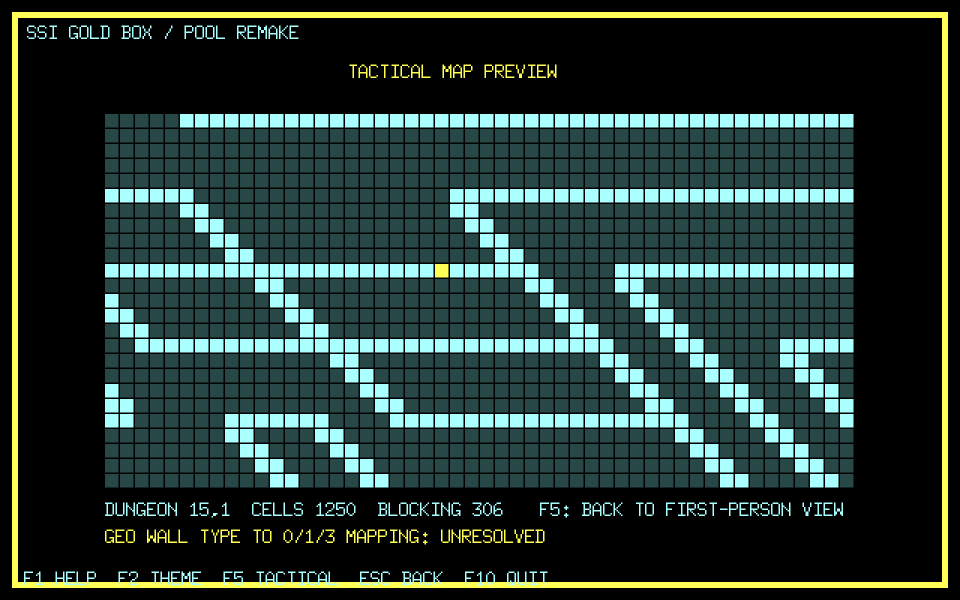
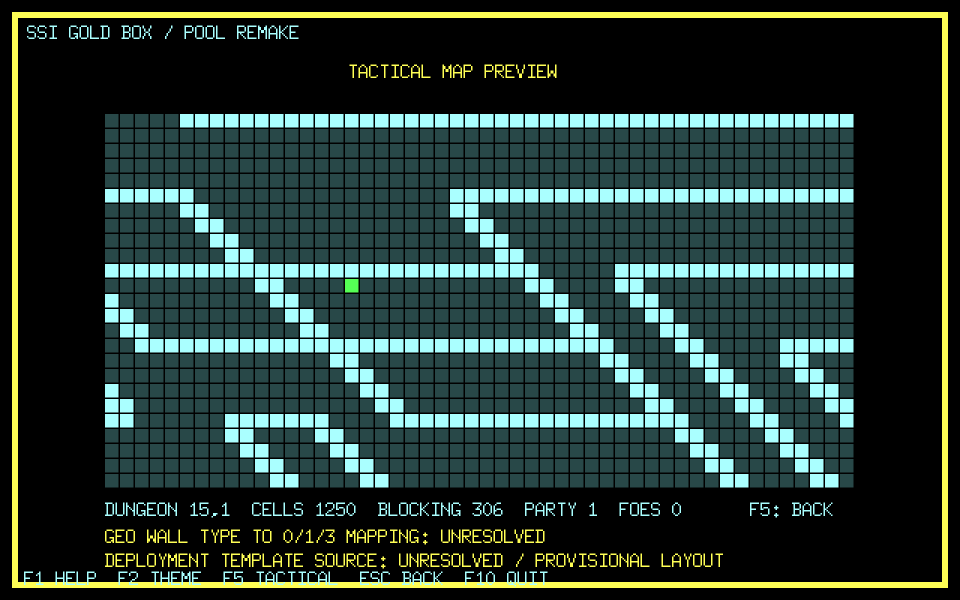
feat: place combatants and decode the GEO wall value mapping
戰術畫面加上 combatant：隊伍與已 staged 的怪物依部署投影擺上戰場，
再用 RebuildOccupancy 算出佔用格畫成兩色。放不下的就不放，不擠也不重疊。

部署仍是暫定的——原版由 DS:43A2h 的陣型樣板決定誰站哪一格，那張表是執行期
填的、不在檔案裡（spec 061），填寫者還沒解出來。這件事寫在畫面上，
而且擺法的程式碼放在畫面層，不進 internal/combat，免得被誤讀成原版行為。

牆面值的對應則不必再猜了：overlay-10 0138h 直接給答案。界外一律回 1，
只有「與隊伍同一列、方向是東或西」例外回 0，走廊因此能延伸出盤面；界內是
「不可通行 → 1；可通行且該方向 detail 為 0 → 0；可通行且 detail 非 0 → 3」。
先前那個「非零一律當成擋路」的簡化已經換掉，門不再畫成實牆。

《青色枷的詛咒》已完成的 remake 產出同樣三個值，只是第一個判斷寫成
「有沒有牆」而非「可不可通行」——措辭相反、結果相同。這裡以 Pool 自己的
位元組為準，把它記在 spec 060。

diff --git a/cmd/pool-game/tactical.go b/cmd/pool-game/tactical.go
@@ -16,17 +16,43 @@ const (
 	tacticalTop      = 76
 )
 
-// geoWallProbe 把 GEO 的牆面查詢接成戰術地圖生成器要的 probe。
+// geoDetailForDirection 取出 GEO cell 在該方向的 detail 位元。
+// engine 的 DetailDirections 依 0／2／4／6 的順序存放。
+func geoDetailForDirection(cell geometry.Cell, direction uint8) uint8 {
+	switch direction {
+	case 0:
+		return cell.DetailDirections[0]
+	case 2:
+		return cell.DetailDirections[1]
+	case 4:
+		return cell.DetailDirections[2]
+	case 6:
+		return cell.DetailDirections[3]
+	}
+	return 0
+}
+
+// geoWallProbe 重現 overlay-10 `0138h`：把 GEO 資料換成戰術層的 0／1／3。
 // engine 的 Wall 用的就是 0／2／4／6 這組方向碼，與戰術層同一套，不必轉換。
 //
-// 原版的牆面值有 0、1、3 三種（spec 060），但 GEO 的牆面值是牆的樣式編號，
-// 兩者之間的對應還沒解出來。這裡把所有非零一律當成 WallBlocking——
-// 於是門目前會畫成實牆。這是刻意讓缺口看得見，不是猜一個對應。
-func geoWallProbe(grid geometry.Grid) combat.WallProbe {
+// 原版不對座標取模：超出 16×16 一律當成牆，只有「與隊伍同一列、且方向是東或西」
+// 例外，那一格回開放，好讓走廊可以延伸出盤面。界內則是「沒有牆 → 0；
+// 有牆且該方向的 detail 位元為 0 → 1；有牆且 detail 非 0 → 3」。
+func geoWallProbe(grid geometry.Grid, partyY int) combat.WallProbe {
 	return func(direction uint8, x, y int) (uint8, error) {
-		wall, ok := grid.WallWrapped(x, y, int(direction))
+		if x < 0 || x >= geometry.Width || y < 0 || y >= geometry.Height {
+			if y == partyY && (direction == combat.WallDirectionEast || direction == combat.WallDirectionWest) {
+				return combat.WallOpen, nil
+			}
+			return combat.WallBlocking, nil
+		}
+		wall, ok := grid.Wall(x, y, int(direction))
 		if !ok || wall == 0 {
 			return combat.WallOpen, nil
+		}
+		cell, _ := grid.Cell(x, y)
+		if geoDetailForDirection(cell, direction) != 0 {
+			return combat.WallAlternate, nil
 		}
 		return combat.WallBlocking, nil
 	}
@@ -52,7 +78,7 @@ func drawTactical(screen *ebiten.Image, a *app, foreground, accent color.Color) 
 		return
 	}
 
-	grid, err := combat.GenerateIndoorTacticalGrid(int(a.spawn.X), int(a.spawn.Y), geoWallProbe(a.initialMap.Grid))
+	grid, err := combat.GenerateIndoorTacticalGrid(int(a.spawn.X), int(a.spawn.Y), geoWallProbe(a.initialMap.Grid, int(a.spawn.Y)))
 	if err != nil {
 		drawText(screen, "TACTICAL MAP ERROR", 232, 190, accent)
 		return
@@ -84,13 +110,104 @@ func drawTactical(screen *ebiten.Image, a *app, foreground, accent color.Color) 
 		}
 	}
 
-	originX, originY := combat.DeploymentCell(0, 0, 0, 0)
-	if originX >= 0 && originX < combat.TacticalMapWidth && originY >= 0 && originY < combat.TacticalMapHeight {
-		fillTacticalCell(screen, originX, originY, accent)
+	roster, friendly := provisionalRoster(a, grid, classes)
+	occupancy, err := combat.RebuildOccupancy(roster)
+	if err != nil {
+		drawText(screen, "OCCUPANCY ERROR", 232, 190, accent)
+		return
+	}
+	partyInk := color.RGBA{85, 255, 85, 255}
+	foeInk := color.RGBA{255, 85, 85, 255}
+	for row := 0; row < combat.TacticalMapHeight; row++ {
+		for column := 0; column < combat.TacticalMapWidth; column++ {
+			index := occupancy[row*combat.TacticalRowStride+column]
+			if index == 0 {
+				continue
+			}
+			ink := foeInk
+			if int(index) < len(friendly) && friendly[index] {
+				ink = partyInk
+			}
+			fillTacticalCell(screen, column, row, ink)
+		}
 	}
 
-	drawText(screen, fmt.Sprintf("DUNGEON %d,%d  CELLS %d  BLOCKING %d",
-		a.spawn.X, a.spawn.Y, painted, blocking), 70, 344, foreground)
-	drawText(screen, "GEO WALL TYPE TO 0/1/3 MAPPING: UNRESOLVED", 70, 362, accent)
-	drawText(screen, "F5: BACK TO FIRST-PERSON VIEW", 360, 344, foreground)
+	party, foes := 0, 0
+	for index := 1; index < len(roster); index++ {
+		if friendly[index] {
+			party++
+		} else {
+			foes++
+		}
+	}
+
+	drawText(screen, fmt.Sprintf("DUNGEON %d,%d  CELLS %d  BLOCKING %d  PARTY %d  FOES %d",
+		a.spawn.X, a.spawn.Y, painted, blocking, party, foes), 70, 344, foreground)
+	drawText(screen, "DEPLOYMENT TEMPLATE SOURCE: UNRESOLVED / PROVISIONAL LAYOUT", 70, 364, accent)
+	drawText(screen, "F5: BACK", 500, 344, foreground)
+}
+
+// 這一段的部署是暫定的。原版由 DS:43A2h 的陣型樣板決定誰站哪一格，而那張表
+// 是執行期填的、不在檔案裡（spec 061），填寫者還沒解出來。在解出來之前，
+// 這裡只從部署投影的格子裡挑得進去的來放，並在畫面上標明它是暫定版面。
+const (
+	provisionalPartyOffsetX = -1
+	provisionalFoeOffsetX   = 2
+)
+
+// deploymentCandidates 依部署投影列出某個地城格偏移底下可以站人的格子，
+// 順序與原版走樣板的順序相同：外層 row、內層 col。
+func deploymentCandidates(grid combat.TacticalGrid, classes combat.CellClasses, offsetX int, taken map[[2]int]bool) [][2]int {
+	candidates := make([][2]int, 0, combat.DeploymentTemplateSize)
+	for row := 0; row < combat.DeploymentTemplateRows; row++ {
+		for column := 0; column < combat.DeploymentTemplateCols; column++ {
+			x, y := combat.DeploymentCell(offsetX, 0, row, column)
+			if x < 0 || x > combat.TacticalMaxX || y < 0 || y > combat.TacticalMaxY {
+				continue
+			}
+			if taken[[2]int{x, y}] {
+				continue
+			}
+			code := grid.Terrain[y*combat.TacticalRowStride+x]
+			if code == combat.UnpaintedCellClass {
+				continue
+			}
+			decision, err := combat.TryPlaceCombatant(0xFF, 0, code, classes)
+			if err != nil || decision != combat.PlacementAccepted {
+				continue
+			}
+			candidates = append(candidates, [2]int{x, y})
+		}
+	}
+	return candidates
+}
+
+// provisionalRoster 把隊伍與已 staged 的怪物擺上戰場，回傳 1-based 的位置表
+// 與各筆屬於哪一方。放不下的就不放——不擠、不重疊、不自行擴大範圍。
+func provisionalRoster(a *app, grid combat.TacticalGrid, classes combat.CellClasses) ([]combat.CombatantCell, []bool) {
+	cells := []combat.CombatantCell{{}}
+	friendly := []bool{false}
+	taken := map[[2]int]bool{}
+
+	assign := func(count, offsetX int, isParty bool) {
+		for _, spot := range deploymentCandidates(grid, classes, offsetX, taken) {
+			if count == 0 {
+				return
+			}
+			taken[[2]int{spot[0], spot[1]}] = true
+			cells = append(cells, combat.CombatantCell{
+				X: uint8(spot[0]), Y: uint8(spot[1]), FootprintClass: 1,
+			})
+			friendly = append(friendly, isParty)
+			count--
+		}
+	}
+
+	assign(len(a.state.Party), provisionalPartyOffsetX, true)
+	foes := 0
+	for _, monster := range a.combatMonsters {
+		foes += int(monster.Spawn.Count)
+	}
+	assign(foes, provisionalFoeOffsetX, false)
+	return cells, friendly
 }

diff --git a/cmd/pool-game/tactical_test.go b/cmd/pool-game/tactical_test.go
@@ -7,32 +7,48 @@ import (
 	"github.com/wicanr2/golden-box-remake-engine/geometry"
 )
 
-// GEO 的牆面值是牆的樣式編號，與戰術層的 0／1／3 還沒對上，
-// 所以任何非零都當成擋路；門因此暫時畫成實牆。
-func TestGeoWallProbeTreatsAnyWallTypeAsBlocking(t *testing.T) {
+// 沒有牆 → 0；有牆而該方向的 detail 為 0 → 1；有牆且 detail 非 0 → 3。
+func TestGeoWallProbeMapsGeoDataToTheThreeOriginalValues(t *testing.T) {
 	var grid geometry.Grid
 	grid.Cells[5][4].WallDirections = [4]uint8{0, 3, 0, 1}
-	probe := geoWallProbe(grid)
+	grid.Cells[5][4].DetailDirections = [4]uint8{0, 2, 0, 0}
+	probe := geoWallProbe(grid, 5)
 
-	got, err := probe(combat.WallDirectionEast, 4, 5)
+	got, err := probe(combat.WallDirectionNorth, 4, 5)
 	if err != nil {
 		t.Fatal(err)
 	}
-	if got != combat.WallBlocking {
-		t.Fatalf("east wall type 3 mapped to %d, want %d", got, combat.WallBlocking)
+	if got != combat.WallOpen {
+		t.Fatalf("an absent wall mapped to %d, want %d", got, combat.WallOpen)
 	}
 	if got, _ = probe(combat.WallDirectionWest, 4, 5); got != combat.WallBlocking {
-		t.Fatalf("west wall type 1 mapped to %d", got)
+		t.Fatalf("a wall with no detail mapped to %d, want %d", got, combat.WallBlocking)
 	}
-	if got, _ = probe(combat.WallDirectionNorth, 4, 5); got != combat.WallOpen {
-		t.Fatalf("an absent wall mapped to %d, want %d", got, combat.WallOpen)
+	if got, _ = probe(combat.WallDirectionEast, 4, 5); got != combat.WallAlternate {
+		t.Fatalf("a wall with detail mapped to %d, want %d", got, combat.WallAlternate)
+	}
+}
+
+// 原版不取模：界外一律是牆，只有隊伍那一列的東西向例外。
+func TestGeoWallProbeTreatsOutsideTheGridAsWall(t *testing.T) {
+	var grid geometry.Grid
+	probe := geoWallProbe(grid, 5)
+
+	if got, _ := probe(combat.WallDirectionNorth, -1, 5); got != combat.WallBlocking {
+		t.Fatalf("north of the grid mapped to %d", got)
+	}
+	if got, _ := probe(combat.WallDirectionEast, -1, 5); got != combat.WallOpen {
+		t.Fatalf("east on the party row mapped to %d, want open", got)
+	}
+	if got, _ := probe(combat.WallDirectionEast, -1, 7); got != combat.WallBlocking {
+		t.Fatalf("east off the party row mapped to %d, want blocking", got)
 	}
 }
 
 // 生成器要能吃下這個 probe 並鋪滿整張盤面。
 func TestGeoWallProbeDrivesTheGenerator(t *testing.T) {
 	var grid geometry.Grid
-	built, err := combat.GenerateIndoorTacticalGrid(8, 8, geoWallProbe(grid))
+	built, err := combat.GenerateIndoorTacticalGrid(8, 8, geoWallProbe(grid, 8))
 	if err != nil {
 		t.Fatal(err)
 	}

diff --git a/docs/spec/060-tactical-map-generation.md b/docs/spec/060-tactical-map-generation.md
@@ -69,6 +69,18 @@ overlay-10 `134Bh` 的 `GetMem` 與 overlay-08 `004Bh` 的釋放後清零。
 有沒有牆，兩者取 OR。方向碼沿用 spec 056 的方向環，`+4` 就是反向。
 `0820h` 對每個地城格用方向 6、0、2 各問一次，結果留在區域變數裡供建構器讀。
 
+單側的查詢在 `0138h`，它把 GEO 資料換成 0／1／3：
+
+1. 座標超出 16×16 時一律回 1（牆），只有「`y` 等於隊伍的 `DS:6A0Ch`、
+   且方向是 2 或 6」例外，回 0。走廊因此可以延伸出盤面。
+2. 界內先問 overlay-30 entry 5；回 0 就是 1（不可通行）。
+3. 可通行時再問 overlay-30 entry 4；回 0 就是 0（開放），非 0 就是 3。
+
+以 GEO 資料表達即：沒有牆是 0，有牆且該方向的 detail 位元為 0 是 1，
+有牆且 detail 非 0 是 3。《青色枷的詛咒》已完成的 remake 也是這三個結果
+（`dungeonOneDirection`），只是它的第一個判斷寫成「有沒有牆」而不是
+「可不可通行」，措辭相反、產出相同。
+
 ### 投影：`022Eh`
 
 戰術格的座標由地城格與格內細部位移算出：
